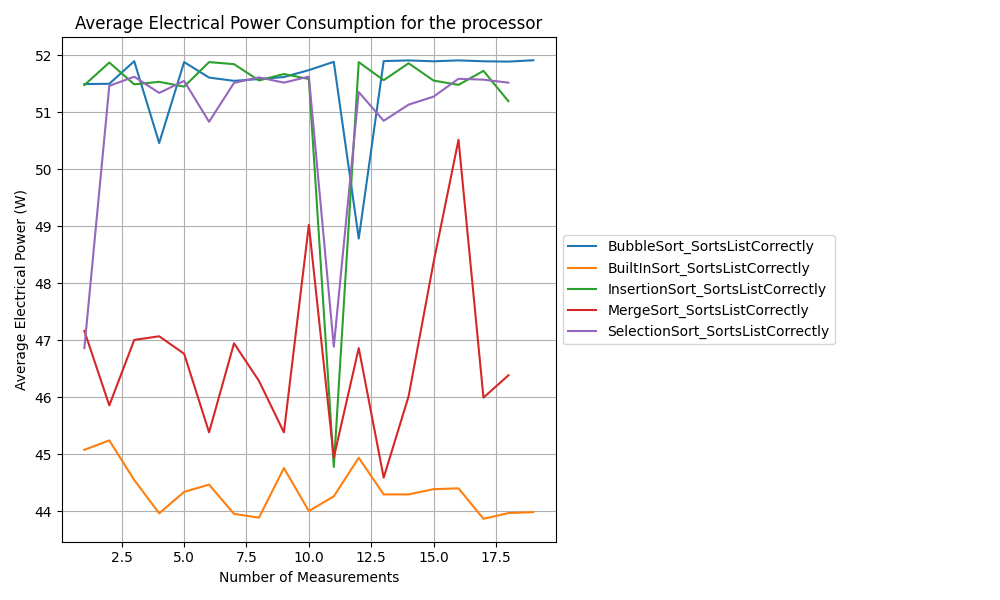
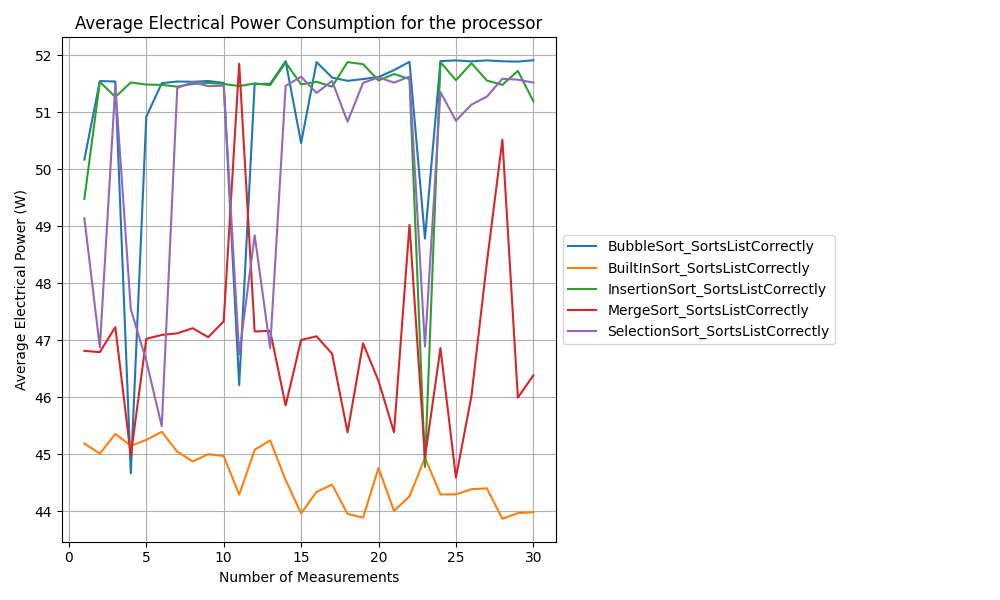
new graphs

diff --git a/CpuIntensiveApp/Plot-Data/plot_results_4_metric.py b/CpuIntensiveApp/Plot-Data/plot_results_4_metric.py
@@ -24,7 +24,7 @@ client = InfluxDBClient(url=url, token=token, org=org)
 # Define the Flux query for all tests but only for the selected metric
 query = f'''
 from(bucket: "{bucket}")
-  |> range(start: -30m)
+  |> range(start: -300m)
   |> filter(fn: (r) => r._measurement == "unit_test_energy" and r._field == "{metric}")
   |> pivot(rowKey:["_time"], columnKey: ["_field"], valueColumn: "_value")
   |> sort(columns: ["_time"])
